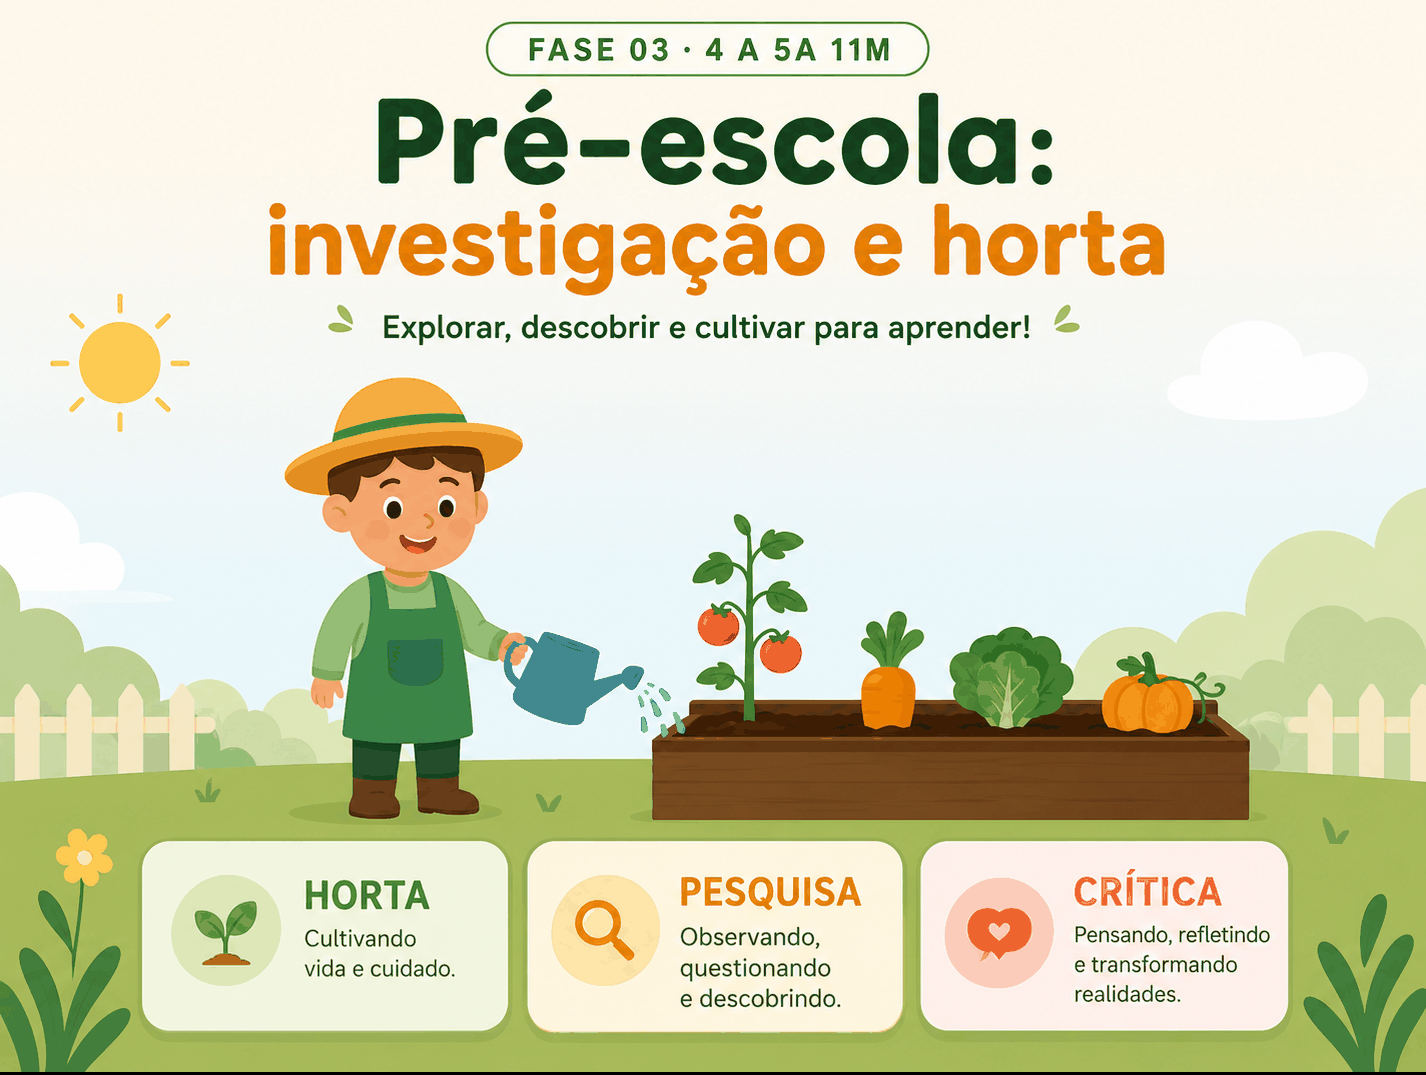
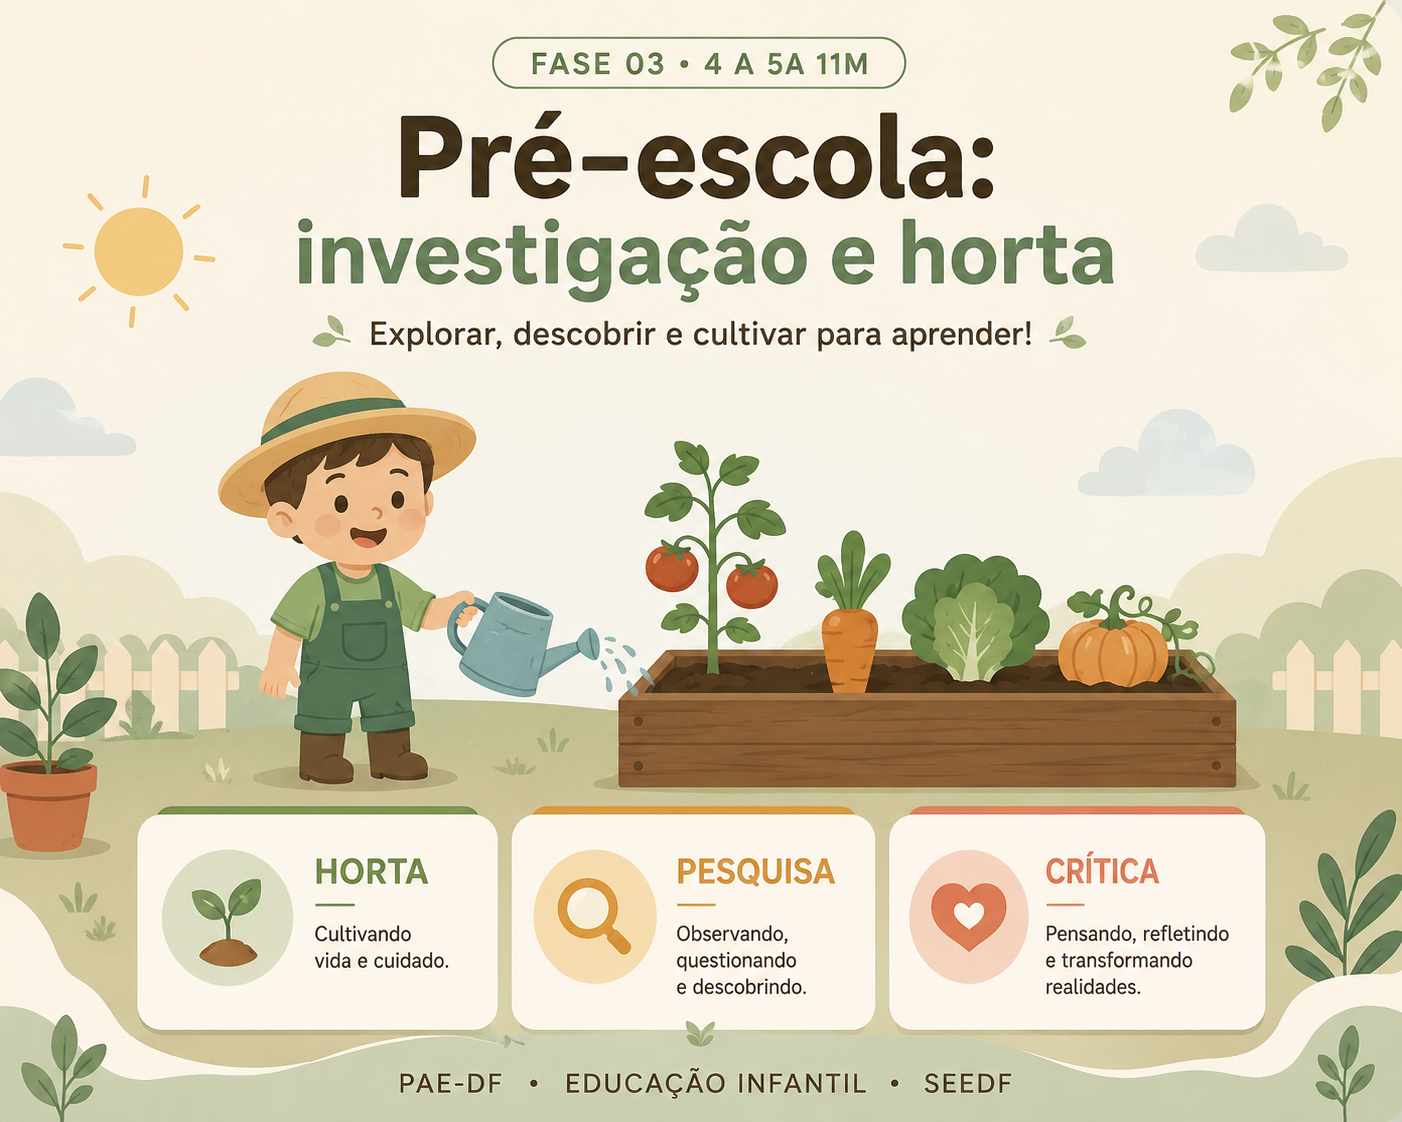
illus-pre: nova ilustracao 'Pre-escola: investigacao e horta'
Substitui PNG e ajusta aspect-ratio dos containers hero (cap-05 e
cap-11) de 1426/1103 para 1402/1122, casando exatamente com a
proporcao da nova arte (5:4). O uso em cap-09 (card 4:3) fica
inalterado.

diff --git a/cap/05-praticas.html b/cap/05-praticas.html
@@ -66,7 +66,7 @@
     <div><div class="chap-hero-num">05</div><h1 class="chap-hero-title">Práticas<br><em>pedagógicas</em></h1></div>
     <p class="chap-hero-lede">O professor é o principal mediador afetivo entre a criança e o mundo dos alimentos. Oito estratégias para a próxima semana.</p>
   </div>
-  <div class="chap-hero-right" style="background: #FEF8EB; aspect-ratio: 1426/1103;"><img src="../images/illus-pre.png" alt="Pré-escolar de chapéu de palha e jardineira verde regando horta com mudas de tomate, cenoura, alface e abóbora — sob sol e céu azul claro." /></div>
+  <div class="chap-hero-right" style="background: #FEF8EB; aspect-ratio: 1402/1122;"><img src="../images/illus-pre.png" alt="Pré-escolar de chapéu de palha e jardineira verde regando horta com mudas de tomate, cenoura, alface e abóbora — sob sol e céu azul claro." /></div>
 </section>
 
 <section class="block block-wide reveal">

diff --git a/cap/11-caderno-2026.html b/cap/11-caderno-2026.html
@@ -77,7 +77,7 @@
     </div>
     <p class="chap-hero-lede">Edição 2026 do Caderno Pedagógico. Como o Currículo em Movimento do DF e a Base Nacional Comum Curricular (BNCC) conversam com a alimentação escolar — uma matriz prática para professores e nutricionistas da Educação Infantil (0–5 anos).</p>
   </div>
-  <div class="chap-hero-right" style="background: #FEF8EB; aspect-ratio: 1426/1103;">
+  <div class="chap-hero-right" style="background: #FEF8EB; aspect-ratio: 1402/1122;">
     <img src="../images/illus-pre.png" alt="Pré-escolar de chapéu de palha e jardineira verde regando horta com mudas de tomate, cenoura, alface e abóbora." />
   </div>
 </section>